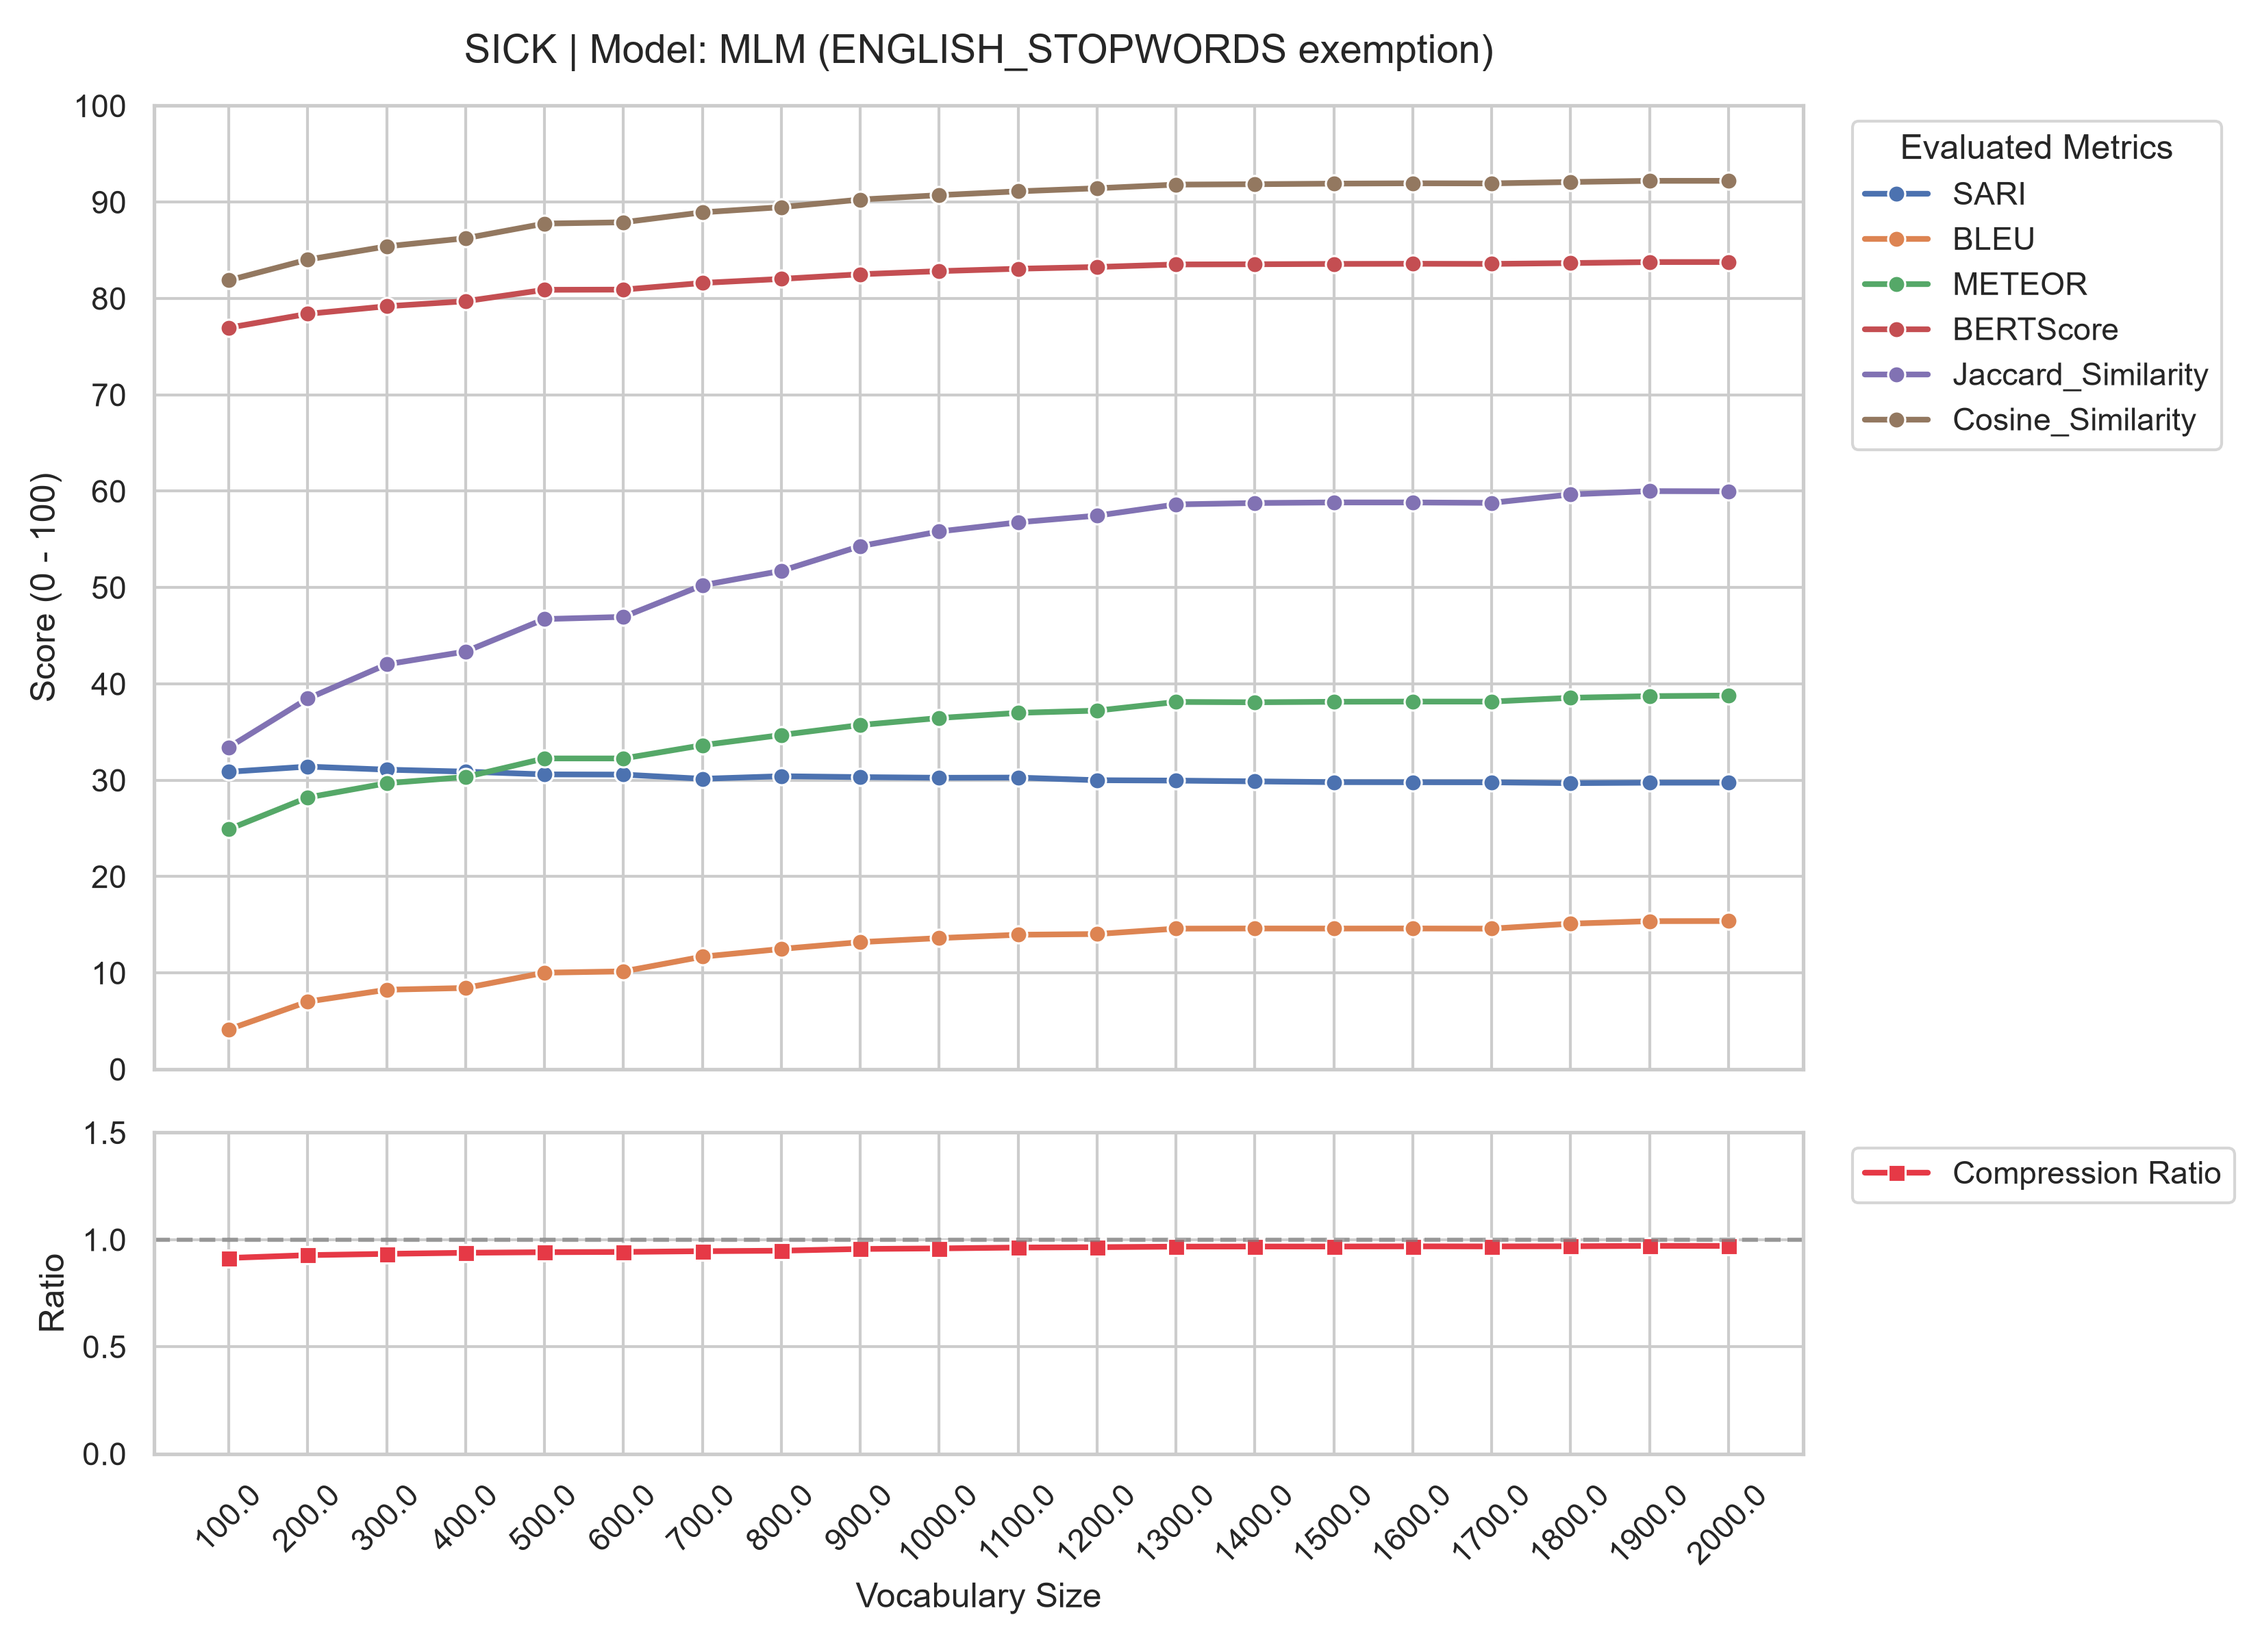
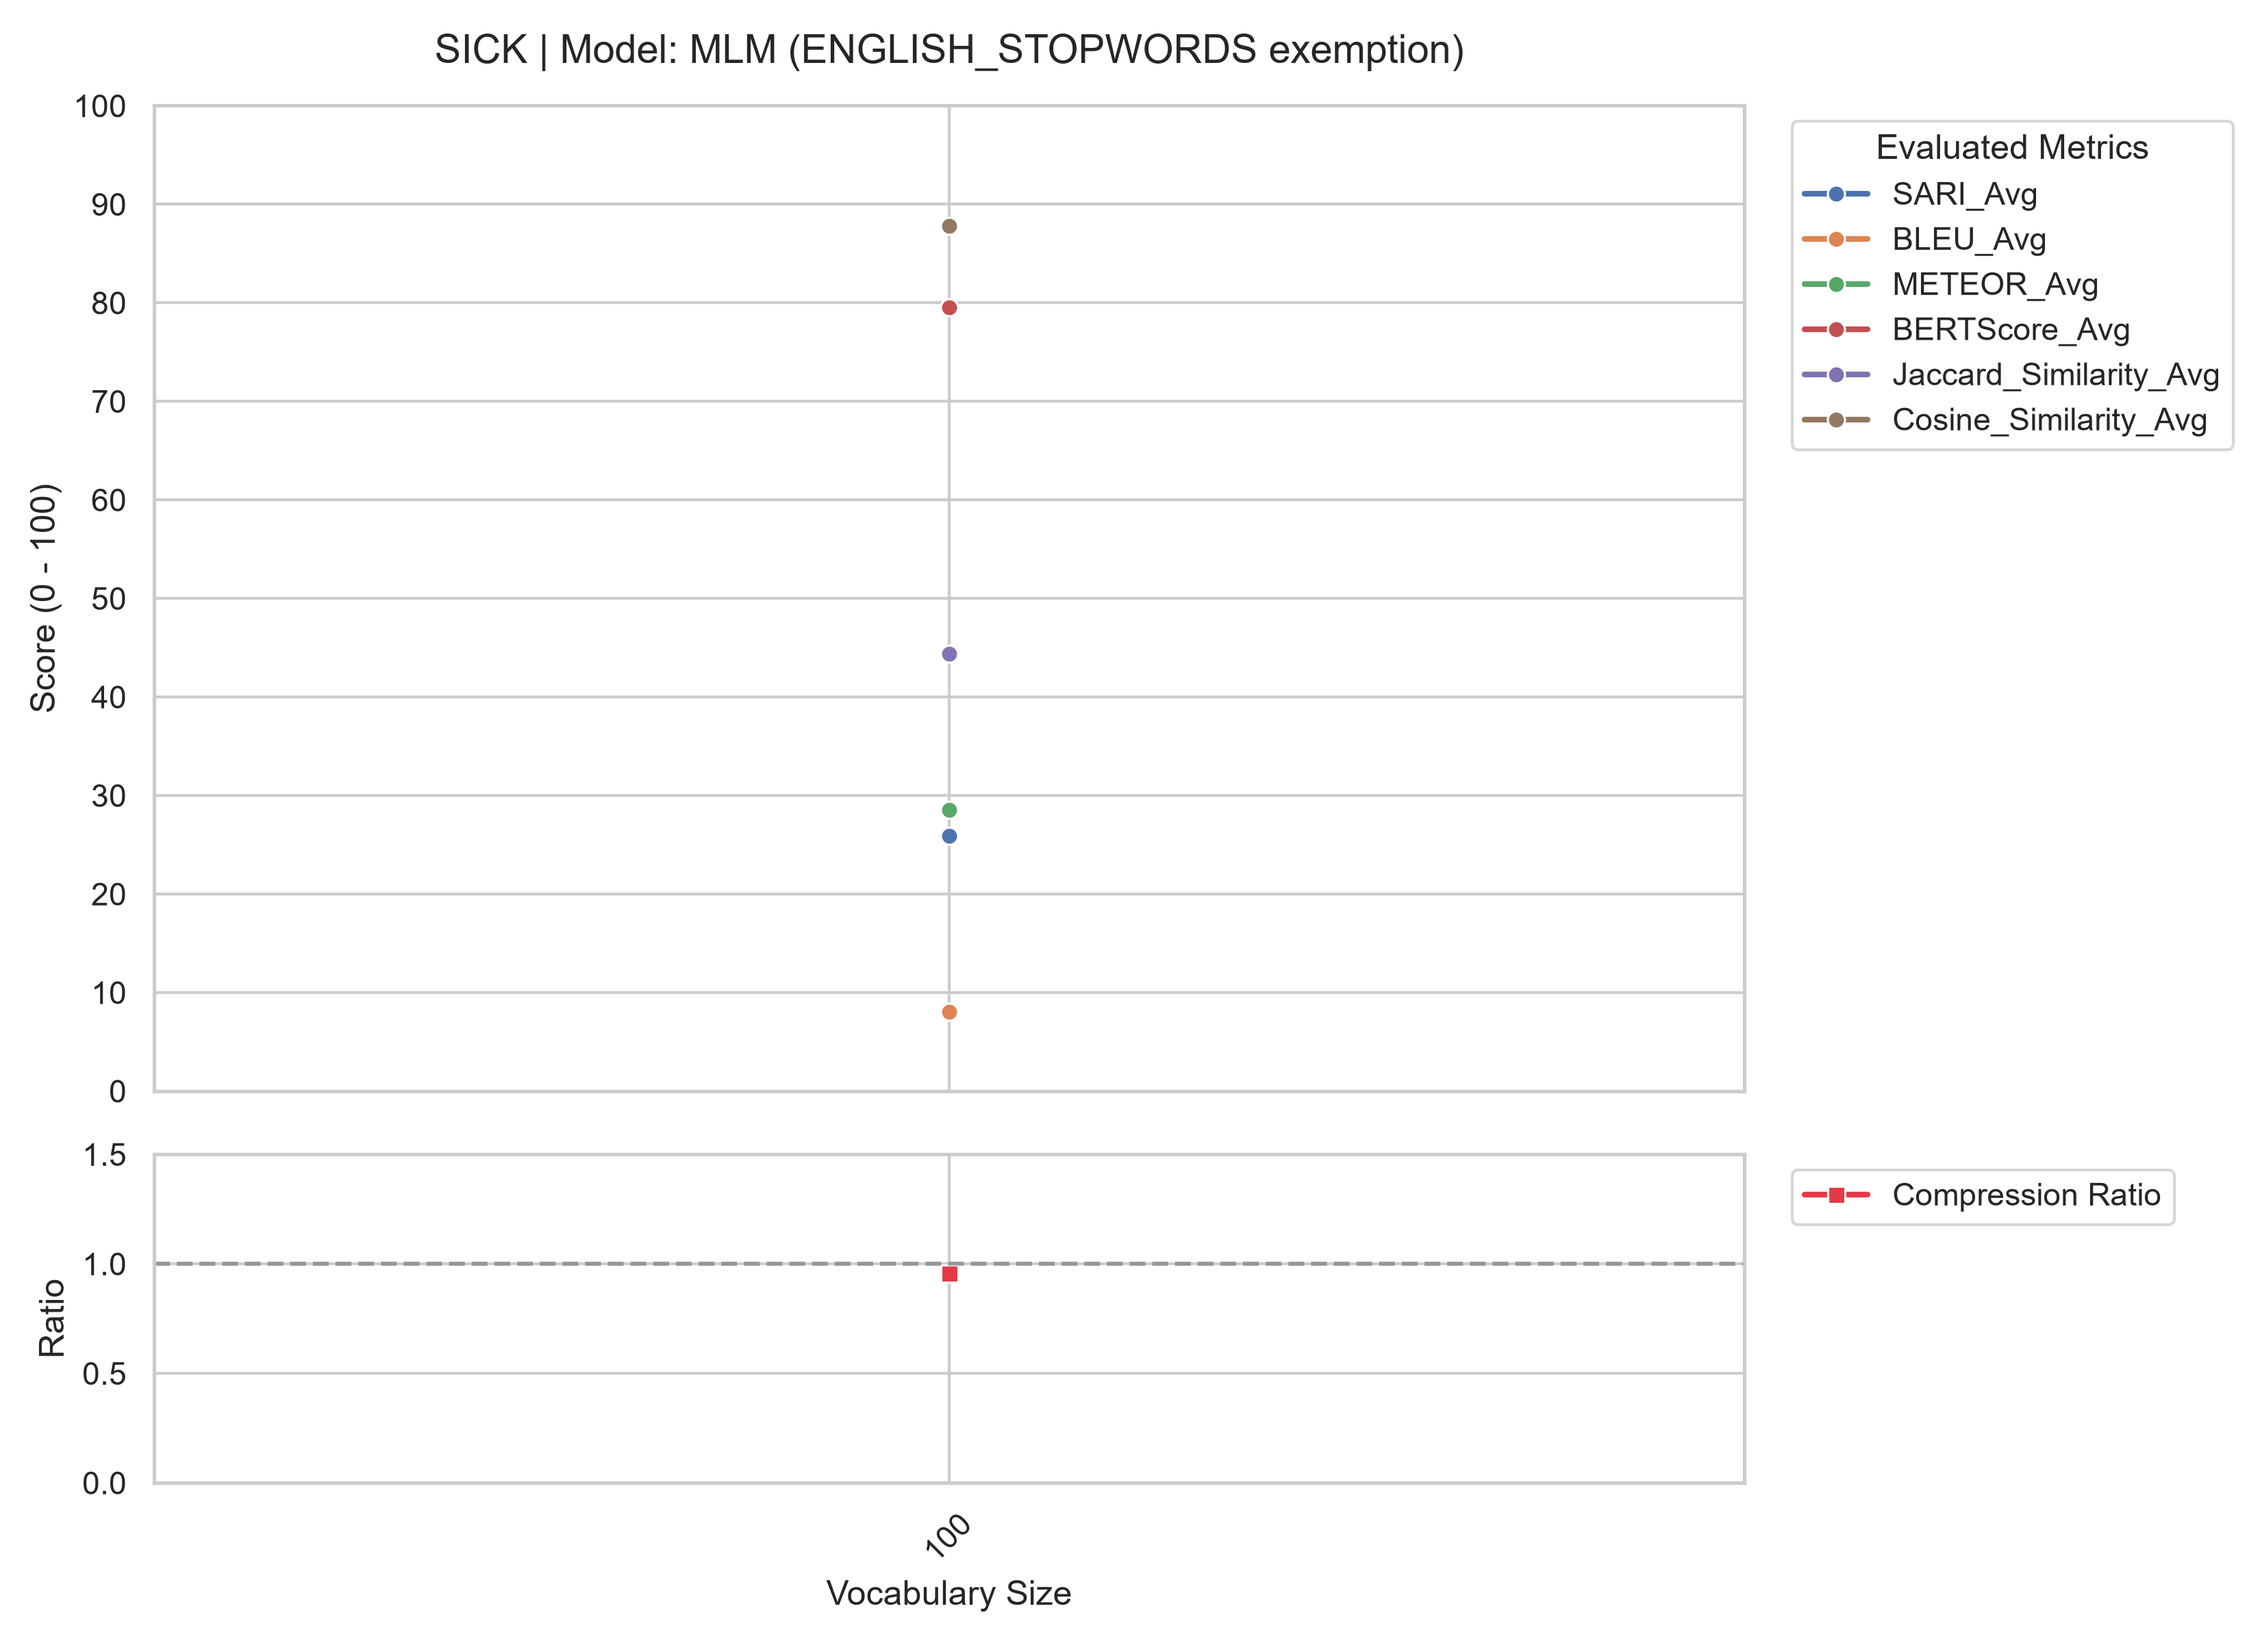
extract advanced metrics (p90)

diff --git a/NewApproach/src/evaluator.py b/NewApproach/src/evaluator.py
@@ -17,6 +17,7 @@ logging.getLogger("huggingface_hub").setLevel(logging.ERROR)
 datasets.logging.set_verbosity_error()
 
 nltk.download("wordnet", quiet=True)
+nltk.download("punkt", quiet=True)
 nltk.download("punkt_tab", quiet=True)
 nltk.download("omw-1.4", quiet=True)
 
@@ -121,6 +122,9 @@ class SimplificationEvaluator:
         return len(intersection) / max(len(union), 1)
 
     def compute_metrics(self, system_outputs: list) -> dict:
+        from nltk.translate.meteor_score import meteor_score
+        from nltk.tokenize import word_tokenize
+
         if not self.source_sentences:
             raise ValueError("Dataset not loaded. Call load_data() first.")
 
@@ -133,25 +137,25 @@ class SimplificationEvaluator:
             else:
                 safe_outputs.append(str(out).strip())
 
-        bleu = sacrebleu.corpus_bleu(safe_outputs, self.references)
-        bleu_score = bleu.score
-
         refs_per_sample = list(zip(*self.references))
         refs_as_strings_list = [list(refs) for refs in refs_per_sample]
 
         sari_scores = []
         jaccard_scores = []
+        bleu_scores = []
+        meteor_scores = []
         
         for orig, sys, refs in zip(self.source_sentences, safe_outputs, refs_per_sample):
             sari_scores.append(self._calculate_sari_pure_python(orig, sys, list(refs)))
             jaccard_scores.append(self._calculate_jaccard(orig, sys))
+            bleu_scores.append(sacrebleu.sentence_bleu(sys, list(refs)).score)
             
-        avg_sari = np.mean(sari_scores)
-        avg_jaccard = np.mean(jaccard_scores) * 100
-
-        print("🧪 Extracting lemmatized match states via METEOR...")
-        meteor_results = self.__class__.meteor_metric.compute(predictions=safe_outputs, references=refs_as_strings_list)
-        meteor_score = meteor_results["meteor"] * 100
+            # Sentence-level METEOR using nltk
+            sys_tokens = word_tokenize(sys)
+            refs_tokens = [word_tokenize(r) for r in refs]
+            meteor_scores.append(meteor_score(refs_tokens, sys_tokens) * 100)
+            
+        jaccard_scores_pct = [j * 100 for j in jaccard_scores]
 
         print("🧠 Running contextual vector alignment via BERTScore...")
         bert_results = self.__class__.bertscore_metric.compute(
@@ -161,7 +165,7 @@ class SimplificationEvaluator:
             model_type="distilbert-base-uncased",
             verbose=False
         )
-        avg_cosine_similarity = np.mean(bert_results["precision"]) * 100
+        cosine_similarity_scores = [p * 100 for p in bert_results["precision"]]
         
         bert_ref_results = self.__class__.bertscore_metric.compute(
             predictions=safe_outputs, 
@@ -169,18 +173,21 @@ class SimplificationEvaluator:
             lang="en",
             model_type="distilbert-base-uncased"
         )
-        avg_bertscore_f1 = np.mean(bert_ref_results["f1"]) * 100
+        bertscore_scores = [f * 100 for f in bert_ref_results["f1"]]
 
         orig_lens = [len(s.split()) for s in self.source_sentences]
         sys_lens = [len(s.split()) for s in safe_outputs]
-        compression_ratio = np.mean(sys_lens) / np.mean(orig_lens)
+        compression_ratios = [
+            s_len / o_len if o_len > 0 else 1.0 
+            for s_len, o_len in zip(sys_lens, orig_lens)
+        ]
 
         return {
-            "SARI": round(avg_sari, 4),
-            "BLEU": round(bleu_score, 4),
-            "METEOR": round(meteor_score, 4),
-            "BERTScore": round(avg_bertscore_f1, 4),
-            "Jaccard_Similarity": round(avg_jaccard, 4),
-            "Cosine_Similarity": round(avg_cosine_similarity, 4),
-            "Compression_Ratio": round(compression_ratio, 4)
+            "SARI": sari_scores,
+            "BLEU": bleu_scores,
+            "METEOR": meteor_scores,
+            "BERTScore": bertscore_scores,
+            "Jaccard_Similarity": jaccard_scores_pct,
+            "Cosine_Similarity": cosine_similarity_scores,
+            "Compression_Ratio": compression_ratios
         }

diff --git a/NewApproach/main.py b/NewApproach/main.py
@@ -82,29 +82,19 @@ def compile_distribution_stats(metrics_dict: dict) -> dict:
     for metric_key, scores in metrics_dict.items():
         if isinstance(scores, (list, np.ndarray)) and len(scores) > 0:
             scores_p = np.array(scores)
-            expanded_stats[f"{metric_key}_Avg"] = float(np.mean(scores_p))
-            expanded_stats[f"{metric_key}_Median"] = float(np.median(scores_p))
-            expanded_stats[f"{metric_key}_Min"] = float(np.min(scores_p))
-            expanded_stats[f"{metric_key}_Max"] = float(np.max(scores_p))
-            expanded_stats[f"{metric_key}_P90"] = float(np.percentile(scores_p, 90))
-            
-            expanded_stats[metric_key] = expanded_stats[f"{metric_key}_Avg"]
+            expanded_stats[f"{metric_key}_Avg"] = round(float(np.mean(scores_p)), 4)
+            expanded_stats[f"{metric_key}_Median"] = round(float(np.median(scores_p)), 4)
+            expanded_stats[f"{metric_key}_Min"] = round(float(np.min(scores_p)), 4)
+            expanded_stats[f"{metric_key}_Max"] = round(float(np.max(scores_p)), 4)
+            expanded_stats[f"{metric_key}_P90"] = round(float(np.percentile(scores_p, 90)), 4)
         else:
             expanded_stats[metric_key] = scores
     return expanded_stats
 
-def write_scannable_dashboard(master_results: list, active_datasets: list, total_vocabs: int, elapsed_mins: float, output_txt_file: str):
-    """Generates the human-scannable dashboard text file."""
+def write_final_csv_report(master_results: list, output_csv_file: str):
+    """Generates the final output CSV file."""
     df_results = pd.DataFrame(master_results)
-    with open(output_txt_file, "w", encoding="utf-8") as out_file:
-        out_file.write("=======================================================\n")
-        out_file.write("📊 ProjectODR Highly-Optimized Caching Evaluation Dashboard Matrix\n")
-        out_file.write("=======================================================\n")
-        out_file.write(f"⏱ Total Matrix Runtime Duration: {elapsed_mins:.2f} minutes\n")
-        out_file.write(f"📦 Source Datasets Evaluated   : {', '.join(active_datasets)}\n")
-        out_file.write(f"📝 Target Constraints Managed  : {total_vocabs} configuration files\n\n")
-        out_file.write(df_results.to_string(index=False))
-        out_file.write("\n\n=== END OF AUTOMATED MATRIC EVALUATION DATA REPORT ===")
+    df_results.to_csv(output_csv_file, index=False)
 
 def run_evaluation_pipeline():
     active_datasets = [ds for ds, enabled in config.DATASETS.items() if enabled]
@@ -127,9 +117,9 @@ def run_evaluation_pipeline():
     master_results = []
     global_start_time = time.time()
     single_job_duration = None
-    output_csv, output_txt = "MASTER_BENCHMARK_MATRIX.csv", "output.txt"
+    output_csv, output_csv_final = "MASTER_BENCHMARK_MATRIX.csv", "output.csv"
     
-    for f in [output_csv, output_txt]:
+    for f in [output_csv, output_csv_final]:
         if os.path.exists(f): os.remove(f)
 
     # 🔄 LOOP 1: VOCABULARIES
@@ -215,9 +205,9 @@ def run_evaluation_pipeline():
 
     total_elapsed_mins = (time.time() - global_start_time) / 60.0
     if master_results:
-        write_scannable_dashboard(master_results, active_datasets, len(active_vocab_paths), total_elapsed_mins, output_txt)
+        write_final_csv_report(master_results, output_csv_final)
 
-    print(f"\n💾 Summary written to: {output_txt}\n📊 Backend CSV compiled: {output_csv}\n⏱ Total wall time: {total_elapsed_mins:.2f} minutes")
+    print(f"\n💾 Summary written to: {output_csv_final}\n📊 Backend CSV compiled: {output_csv}\n⏱ Total wall time: {total_elapsed_mins:.2f} minutes")
 
 if __name__ == "__main__":
     run_evaluation_pipeline()

diff --git a/NewApproach/src/results_displayer.py b/NewApproach/src/results_displayer.py
@@ -1,8 +1,15 @@
 import os
+import sys
+import io
 import shutil
 import pandas as pd
 import matplotlib.pyplot as plt
 import seaborn as sns
+
+# Configure stdout and stderr to use UTF-8 to prevent UnicodeEncodeError in Windows consoles
+if sys.platform.startswith('win'):
+    sys.stdout = io.TextIOWrapper(sys.stdout.buffer, encoding='utf-8', line_buffering=True)
+    sys.stderr = io.TextIOWrapper(sys.stderr.buffer, encoding='utf-8', line_buffering=True)
 
 sns.set_theme(style="whitegrid")
 plt.rcParams.update({'font.size': 11, 'axes.labelsize': 12, 'axes.titlesize': 14})
@@ -38,7 +45,7 @@ def generate_benchmark_plots(csv_path="MASTER_BENCHMARK_MATRIX.csv", output_dir=
     models = plot_df['Model_ID'].unique()
     exempt_modes = plot_df['Exempt_Mode'].unique()
     
-    accuracy_metrics = ["SARI", "BLEU", "METEOR", "BERTScore", "Jaccard_Similarity", "Cosine_Similarity"]
+    accuracy_metrics = ["SARI_Avg", "BLEU_Avg", "METEOR_Avg", "BERTScore_Avg", "Jaccard_Similarity_Avg", "Cosine_Similarity_Avg"]
     
     for dataset in datasets:
         for model in models:
@@ -80,7 +87,7 @@ def generate_benchmark_plots(csv_path="MASTER_BENCHMARK_MATRIX.csv", output_dir=
                 sns.lineplot(
                     data=subset,
                     x="Vocab_Size",
-                    y="Compression_Ratio",
+                    y="Compression_Ratio_Avg",
                     marker="s",
                     color="#E63946",
                     linewidth=2.0,
@@ -92,7 +99,7 @@ def generate_benchmark_plots(csv_path="MASTER_BENCHMARK_MATRIX.csv", output_dir=
                 ax2.axhline(1.0, color="gray", linestyle="--", alpha=0.7)
                 ax2.set_xlabel("Vocabulary Size")
                 ax2.set_ylabel("Ratio")
-                ax2.set_ylim(0, max(1.5, subset['Compression_Ratio'].max() * 1.2))
+                ax2.set_ylim(0, max(1.5, subset['Compression_Ratio_Avg'].max() * 1.2))
                 ax2.set_xticks(subset['Vocab_Size'].unique())
                 ax2.set_xticklabels(subset['Vocab_Size'].unique(), rotation=45)
                 ax2.legend(loc="upper left", bbox_to_anchor=(1.02, 1))
